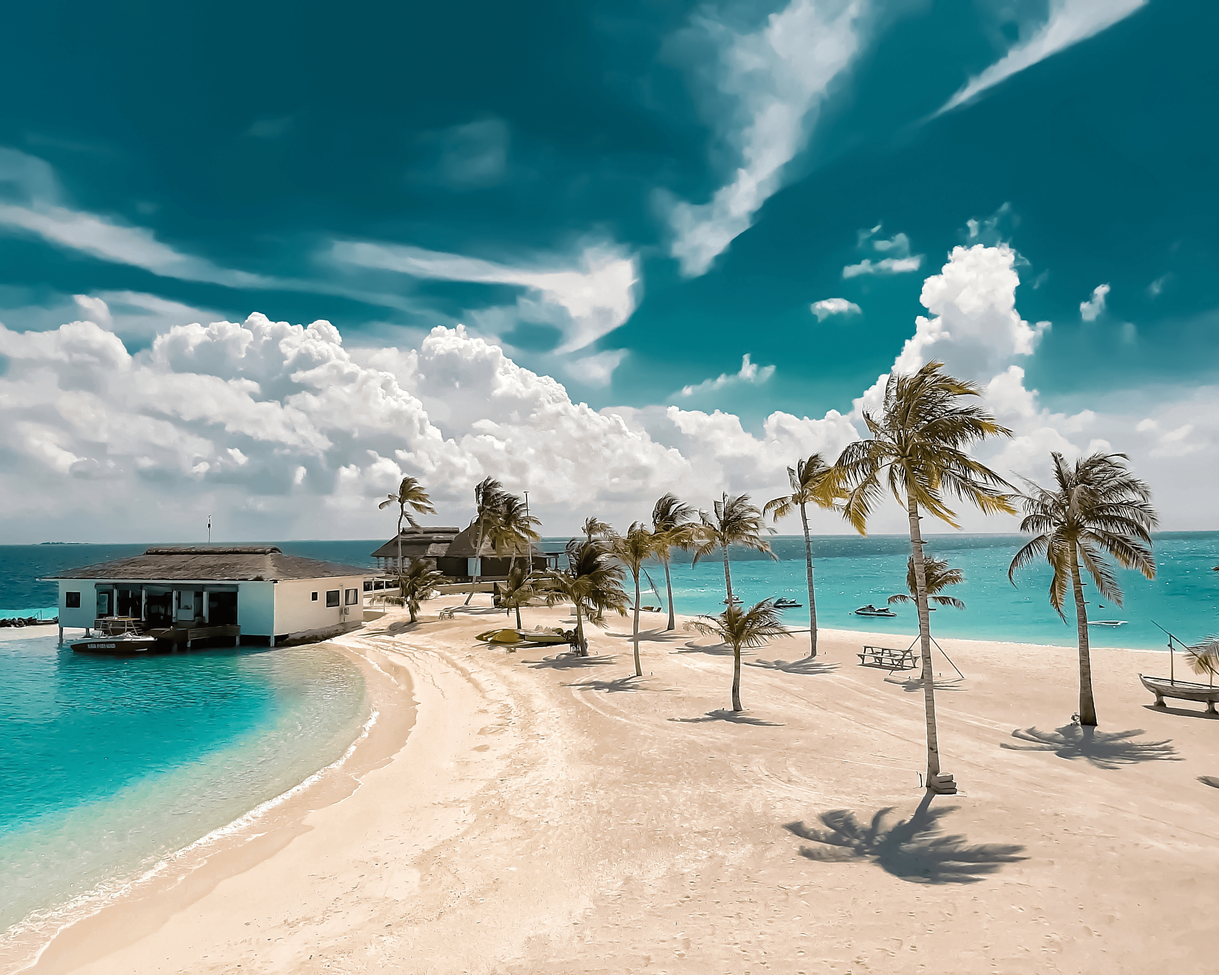
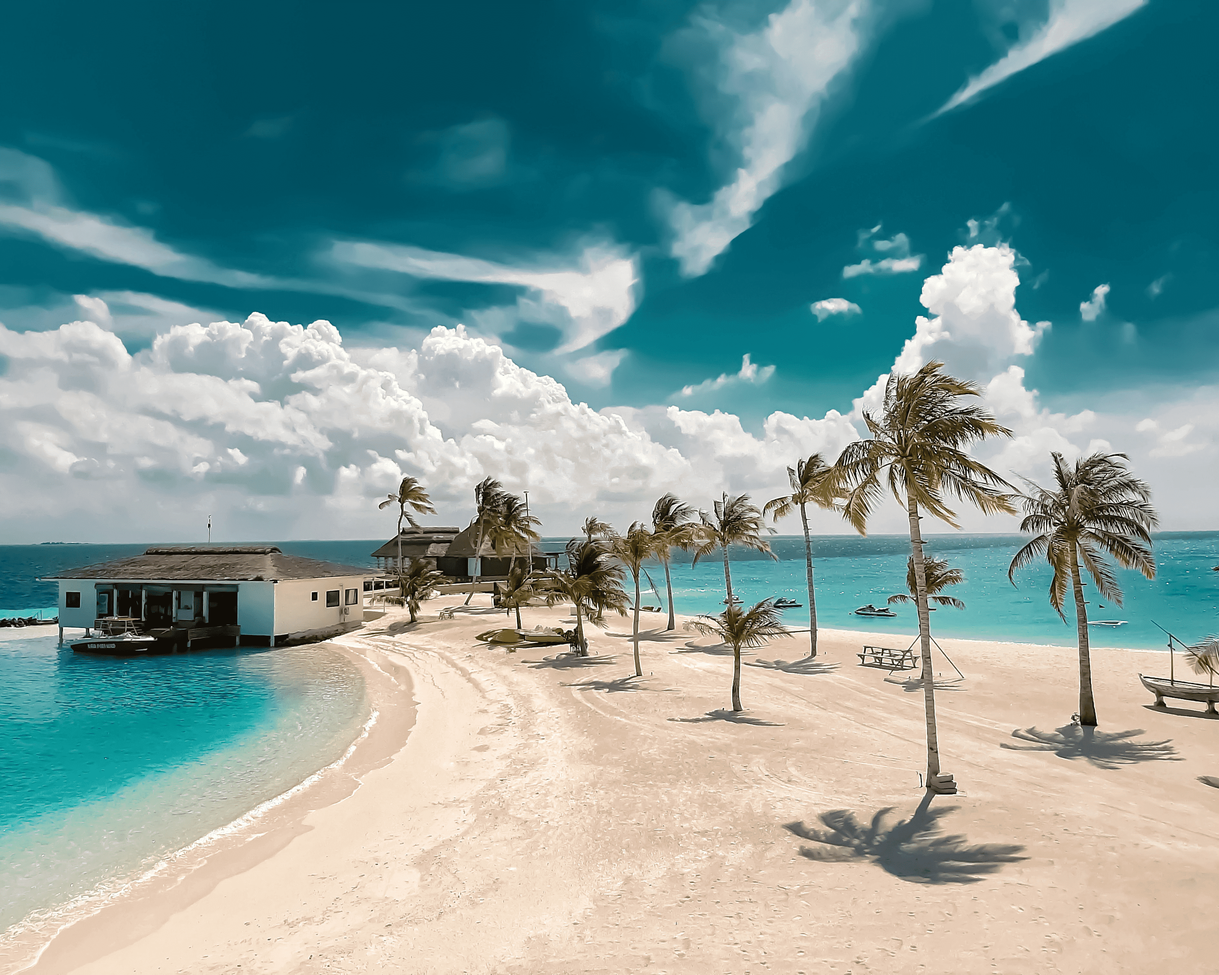
resize

diff --git a/tree-house.html b/tree-house.html
@@ -48,7 +48,7 @@
         <div><img src="images/tree-house-2.png" /></div>
         <div><img src="images/tree-house-3.png" /></div>
         <div><img src="images/tree-house-4.png" /></div>
-        <div><img src="images/tree-house-5.jpg" /></div>
+        <div><img src="images/tree-house-5.png" /></div>
       </div>
       <div class="small-details">
         <h2>Treehouse hosted by Shanu</h2>
